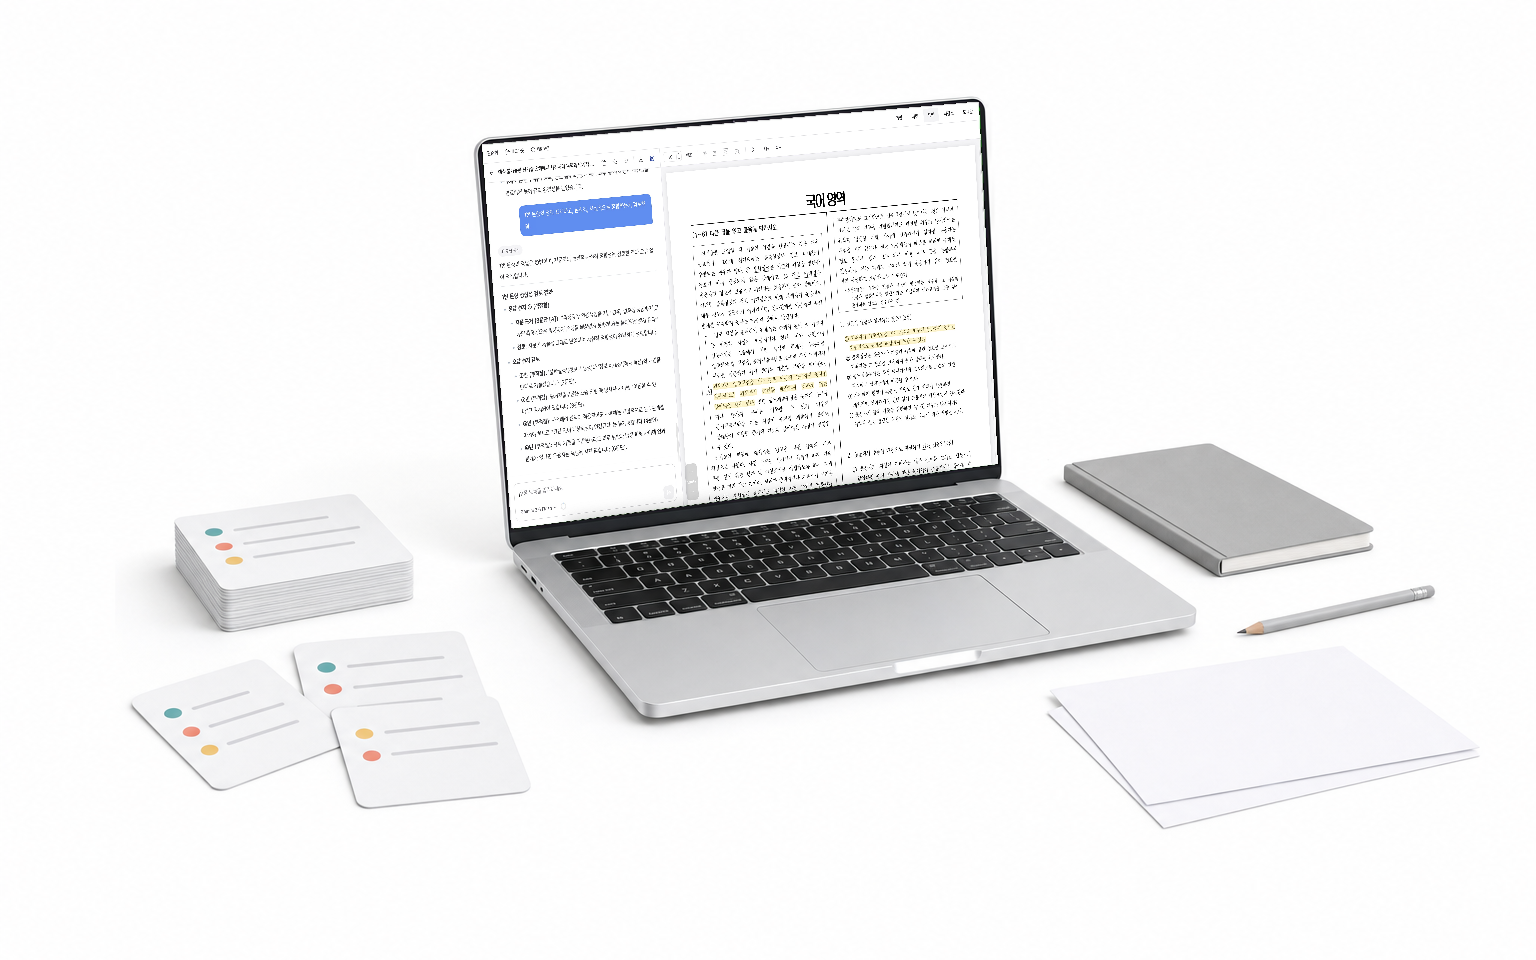
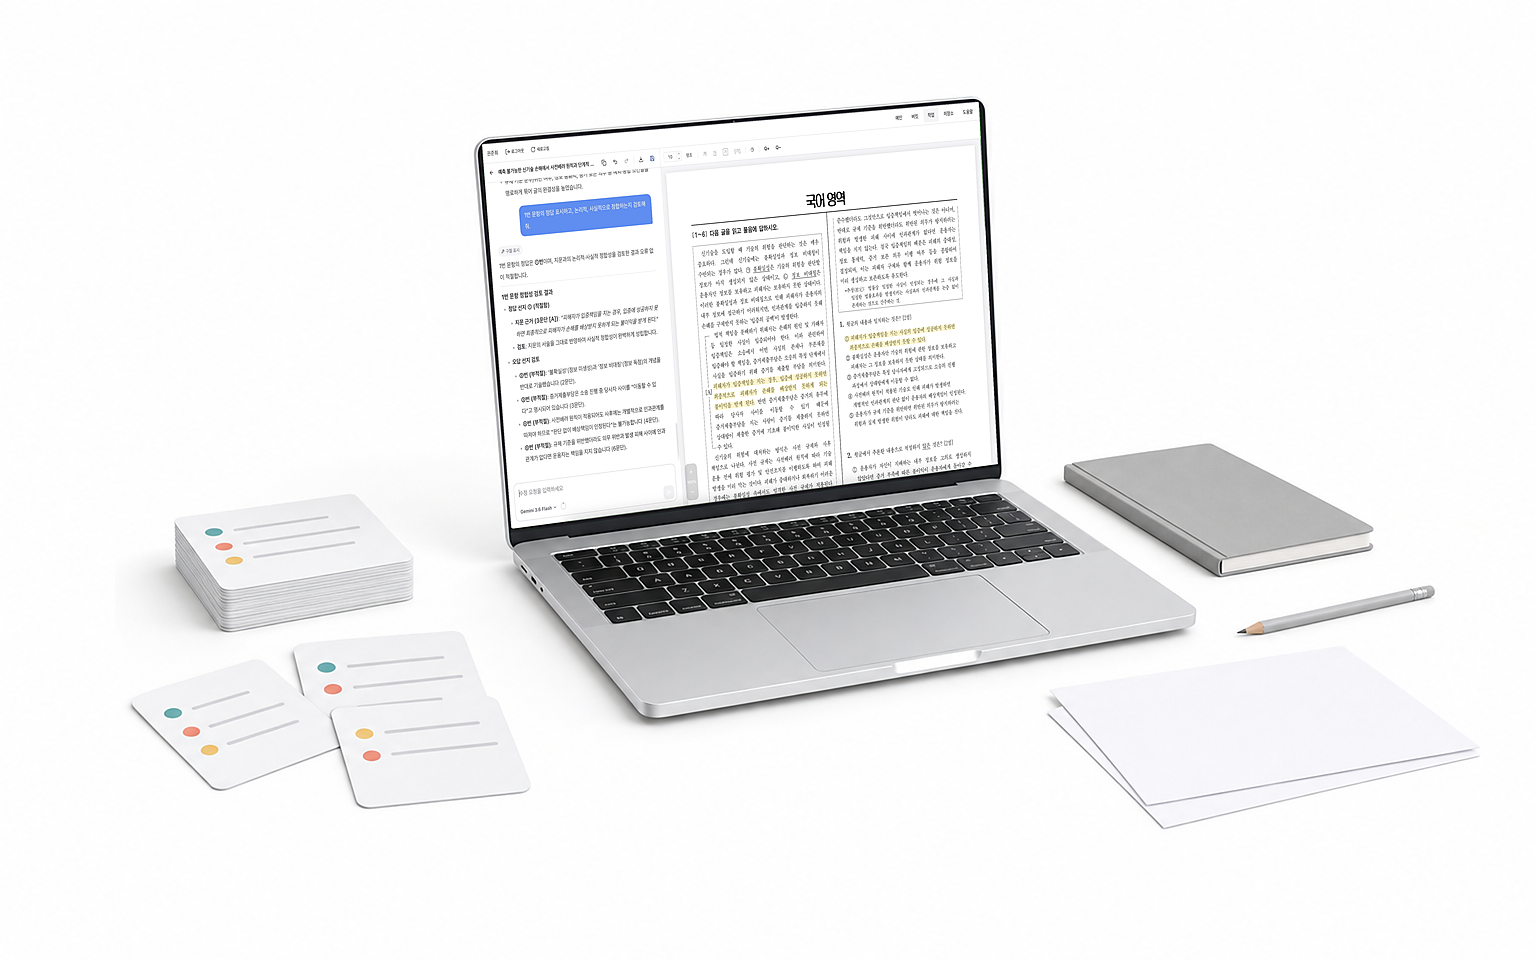
8월 1주차 접수표를 지금 상태로 맞춘다
지난 이틀 동안 처리한 항목의 조치여부를 완료로 바꾸고, 어제 오늘 새로 들어온
요청 다섯 건을 접수표에 넣었다. 소재 추출 화면 통합, 기출 첨부, 모델 선택과
한도 표시, 문항별 모티브 기출, 파일에서 작업 등록이다.

Changed region(s): [[0.3125, 0.1562, 0.6562, 0.5312], [0.5938, 0.0938, 0.625, 0.125]]

diff --git a/research/ksat-agent.html b/research/ksat-agent.html
@@ -84,21 +84,28 @@
 
 <table class="intake">
 <tr><th>번호</th><th>접수일</th><th>내용</th><th>조치여부</th></tr>
-<tr><td>1</td><td>2026-08-04</td><td class="what"><ul><li>문항 수 상한을 5개에서 더 늘리기</li><li>2022개정 예시 문항에 6문항짜리 세트가 있음</li></ul></td><td><span class="state todo">예정</span></td></tr>
+<tr><td>1</td><td>2026-08-04</td><td class="what"><ul><li>문항 수 상한을 5개에서 더 늘리기</li><li>2022개정 예시 문항에 6문항짜리 세트가 있음</li></ul></td><td><span class="state done">완료</span></td></tr>
 <tr><td>2</td><td>2026-08-04</td><td class="what"><ul><li>문항의 <code>[2점]</code> 배점 표기를 처음 설정에서 켜고 끄기</li></ul></td><td><span class="state todo">예정</span></td></tr>
 <tr><td>3</td><td>2026-08-04</td><td class="what"><ul><li>2022개정 예시 문항을 아카이브에 적재</li></ul></td><td><span class="state todo">예정</span></td></tr>
 <tr><td>4</td><td>2026-08-04</td><td class="what"><ul><li>복합 지문과 장문 독서 지원</li><li>문단 수·줄 수 조건을 받아 반영</li></ul></td><td><span class="state todo">예정</span></td></tr>
 <tr><td>5</td><td>2026-08-05</td><td class="what"><ul><li>소재 추출이 끝나지 않고 계속 진행 중으로 남음</li><li>20분 넘게 아무 기록이 없으면 중단으로 표시하도록 수정</li></ul></td><td><span class="state done">완료</span></td></tr>
 <tr><td>6</td><td>2026-08-05</td><td class="what"><ul><li>배포하면 진행 중이던 소재 추출이 사라짐</li><li>작업을 Cloud Tasks 큐로 옮겨 카드 한 장 단위로 다시 배달</li></ul></td><td><span class="state done">완료</span></td></tr>
-<tr><td>7</td><td>2026-08-05</td><td class="what"><ul><li>그림을 고쳐도 작업 화면에는 이전 그림이 보임</li><li>HWPX로 내려받은 파일에는 고친 그림이 들어 있음</li></ul></td><td><span class="state doing">진행 중</span></td></tr>
-<tr><td>8</td><td>2026-08-05</td><td class="what"><ul><li>어시스턴트가 요청을 삼키고 아무 말 없이 끝남</li></ul></td><td><span class="state todo">예정</span></td></tr>
-<tr><td>9</td><td>2026-08-05</td><td class="what"><ul><li>어시스턴트가 무엇을 어떻게 고쳤는지 알려 주지 않음</li></ul></td><td><span class="state todo">예정</span></td></tr>
-<tr><td>10</td><td>2026-08-05</td><td class="what"><ul><li>저장소 세트의 제목을 바꾸는 기능</li><li>비슷한 소재로 여러 지문을 뽑으면 제목이 겹쳐 구분되지 않음</li></ul></td><td><span class="state todo">예정</span></td></tr>
-<tr><td>11</td><td>2026-08-05</td><td class="what"><ul><li>지금 상태를 HWPX로 저장소에 남기고 메모를 붙이는 스냅샷 기능</li><li>편집 화면에서 문장을 끌면 몇 문단 몇 줄인지와 함께 메모에 인용</li></ul></td><td><span class="state todo">예정</span></td></tr>
-<tr><td>12</td><td>2026-08-05</td><td class="what"><ul><li>소재 카드에서 지문 요약을 맨 위로</li></ul></td><td><span class="state todo">예정</span></td></tr>
-<tr><td>13</td><td>2026-08-05</td><td class="what"><ul><li>문항 설정에 요청사항을 문장으로 적는 칸 추가</li></ul></td><td><span class="state todo">예정</span></td></tr>
-<tr><td>14</td><td>2026-08-05</td><td class="what"><ul><li>PDF를 두 개 이상 고를 수 있게</li></ul></td><td><span class="state todo">예정</span></td></tr>
-<tr><td>15</td><td>2026-08-05</td><td class="what"><ul><li>컨텍스트 캐싱이 OpenAI·Anthropic·Gemini 세 곳에 걸려 있는지 확인</li><li>대시보드 단가가 캐시로 읽은 토큰을 반영하는지 확인</li></ul></td><td><span class="state todo">예정</span></td></tr>
+<tr><td>7</td><td>2026-08-05</td><td class="what"><ul><li>그림을 고쳐도 작업 화면에는 이전 그림이 보임</li><li>HWPX로 내려받은 파일에는 고친 그림이 들어 있음</li></ul></td><td><span class="state done">완료</span></td></tr>
+<tr><td>8</td><td>2026-08-05</td><td class="what"><ul><li>어시스턴트가 요청을 삼키고 아무 말 없이 끝남</li></ul></td><td><span class="state done">완료</span></td></tr>
+<tr><td>9</td><td>2026-08-05</td><td class="what"><ul><li>어시스턴트가 무엇을 어떻게 고쳤는지 알려 주지 않음</li></ul></td><td><span class="state done">완료</span></td></tr>
+<tr><td>10</td><td>2026-08-05</td><td class="what"><ul><li>저장소 세트의 제목을 바꾸는 기능</li><li>비슷한 소재로 여러 지문을 뽑으면 제목이 겹쳐 구분되지 않음</li></ul></td><td><span class="state done">완료</span></td></tr>
+<tr><td>11</td><td>2026-08-05</td><td class="what"><ul><li>지금 상태를 HWPX로 저장소에 남기고 메모를 붙이는 스냅샷 기능</li><li>편집 화면에서 문장을 끌면 몇 문단 몇 줄인지와 함께 메모에 인용</li></ul></td><td><span class="state done">완료</span></td></tr>
+<tr><td>12</td><td>2026-08-05</td><td class="what"><ul><li>소재 카드에서 지문 요약을 맨 위로</li></ul></td><td><span class="state done">완료</span></td></tr>
+<tr><td>13</td><td>2026-08-05</td><td class="what"><ul><li>문항 설정에 요청사항을 문장으로 적는 칸 추가</li></ul></td><td><span class="state done">완료</span></td></tr>
+<tr><td>14</td><td>2026-08-05</td><td class="what"><ul><li>PDF를 두 개 이상 고를 수 있게</li><li>파일마다 페이지 구간을 골라 담고, 한글 문서와 이미지도 같은 창에서 첨부</li></ul></td><td><span class="state done">완료</span></td></tr>
+<tr><td>15</td><td>2026-08-05</td><td class="what"><ul><li>컨텍스트 캐싱이 OpenAI·Anthropic·Gemini 세 곳에 걸려 있는지 확인</li><li>대시보드 단가가 캐시로 읽은 토큰을 반영하는지 확인</li></ul></td><td><span class="state done">완료</span></td></tr>
+<tr><td>16</td><td>2026-08-05</td><td class="what"><ul><li>지문 생성에 쓰는 모델의 단가가 대시보드 단가표에 없어 비용에서 빠짐</li></ul></td><td><span class="state doing">진행 중</span></td></tr>
+<tr><td>17</td><td>2026-08-05</td><td class="what"><ul><li>소재 카드와 지문 윤문에서 모델의 생각 토큰이 사용량에 빠짐</li></ul></td><td><span class="state done">완료</span></td></tr>
+<tr><td>18</td><td>2026-08-06</td><td class="what"><ul><li>파일 올리기와 직접 입력으로 나뉘어 있던 소재 추출 화면을 하나로</li><li>왼쪽에서 버킷 이름·분야·지문 유형·개수·모델을 정하고 오른쪽에서 프롬프트 작성</li></ul></td><td><span class="state done">완료</span></td></tr>
+<tr><td>19</td><td>2026-08-06</td><td class="what"><ul><li>소재를 뽑을 때 쓸 기출을 골라 함께 넣기</li><li>시행 년도·월·출처로 목록을 좁히고 조판 결과로 미리 보기</li></ul></td><td><span class="state done">완료</span></td></tr>
+<tr><td>20</td><td>2026-08-06</td><td class="what"><ul><li>소재를 만들 모델을 고르고, 모델마다 하루 생성 횟수와 한 번에 만들 개수를 표로 확인</li></ul></td><td><span class="state done">완료</span></td></tr>
+<tr><td>21</td><td>2026-08-06</td><td class="what"><ul><li>문항마다 모티브로 삼을 기출을 한 세트씩 붙이기</li></ul></td><td><span class="state done">완료</span></td></tr>
+<tr><td>22</td><td>2026-08-06</td><td class="what"><ul><li>이미 있는 지문·문항 파일을 올려 작업으로 바로 등록</li><li>hwp·hwpx·pdf에서 읽은 지문 세트를 골라 편집 화면으로</li></ul></td><td><span class="state done">완료</span></td></tr>
 </table>
 </div>
 
